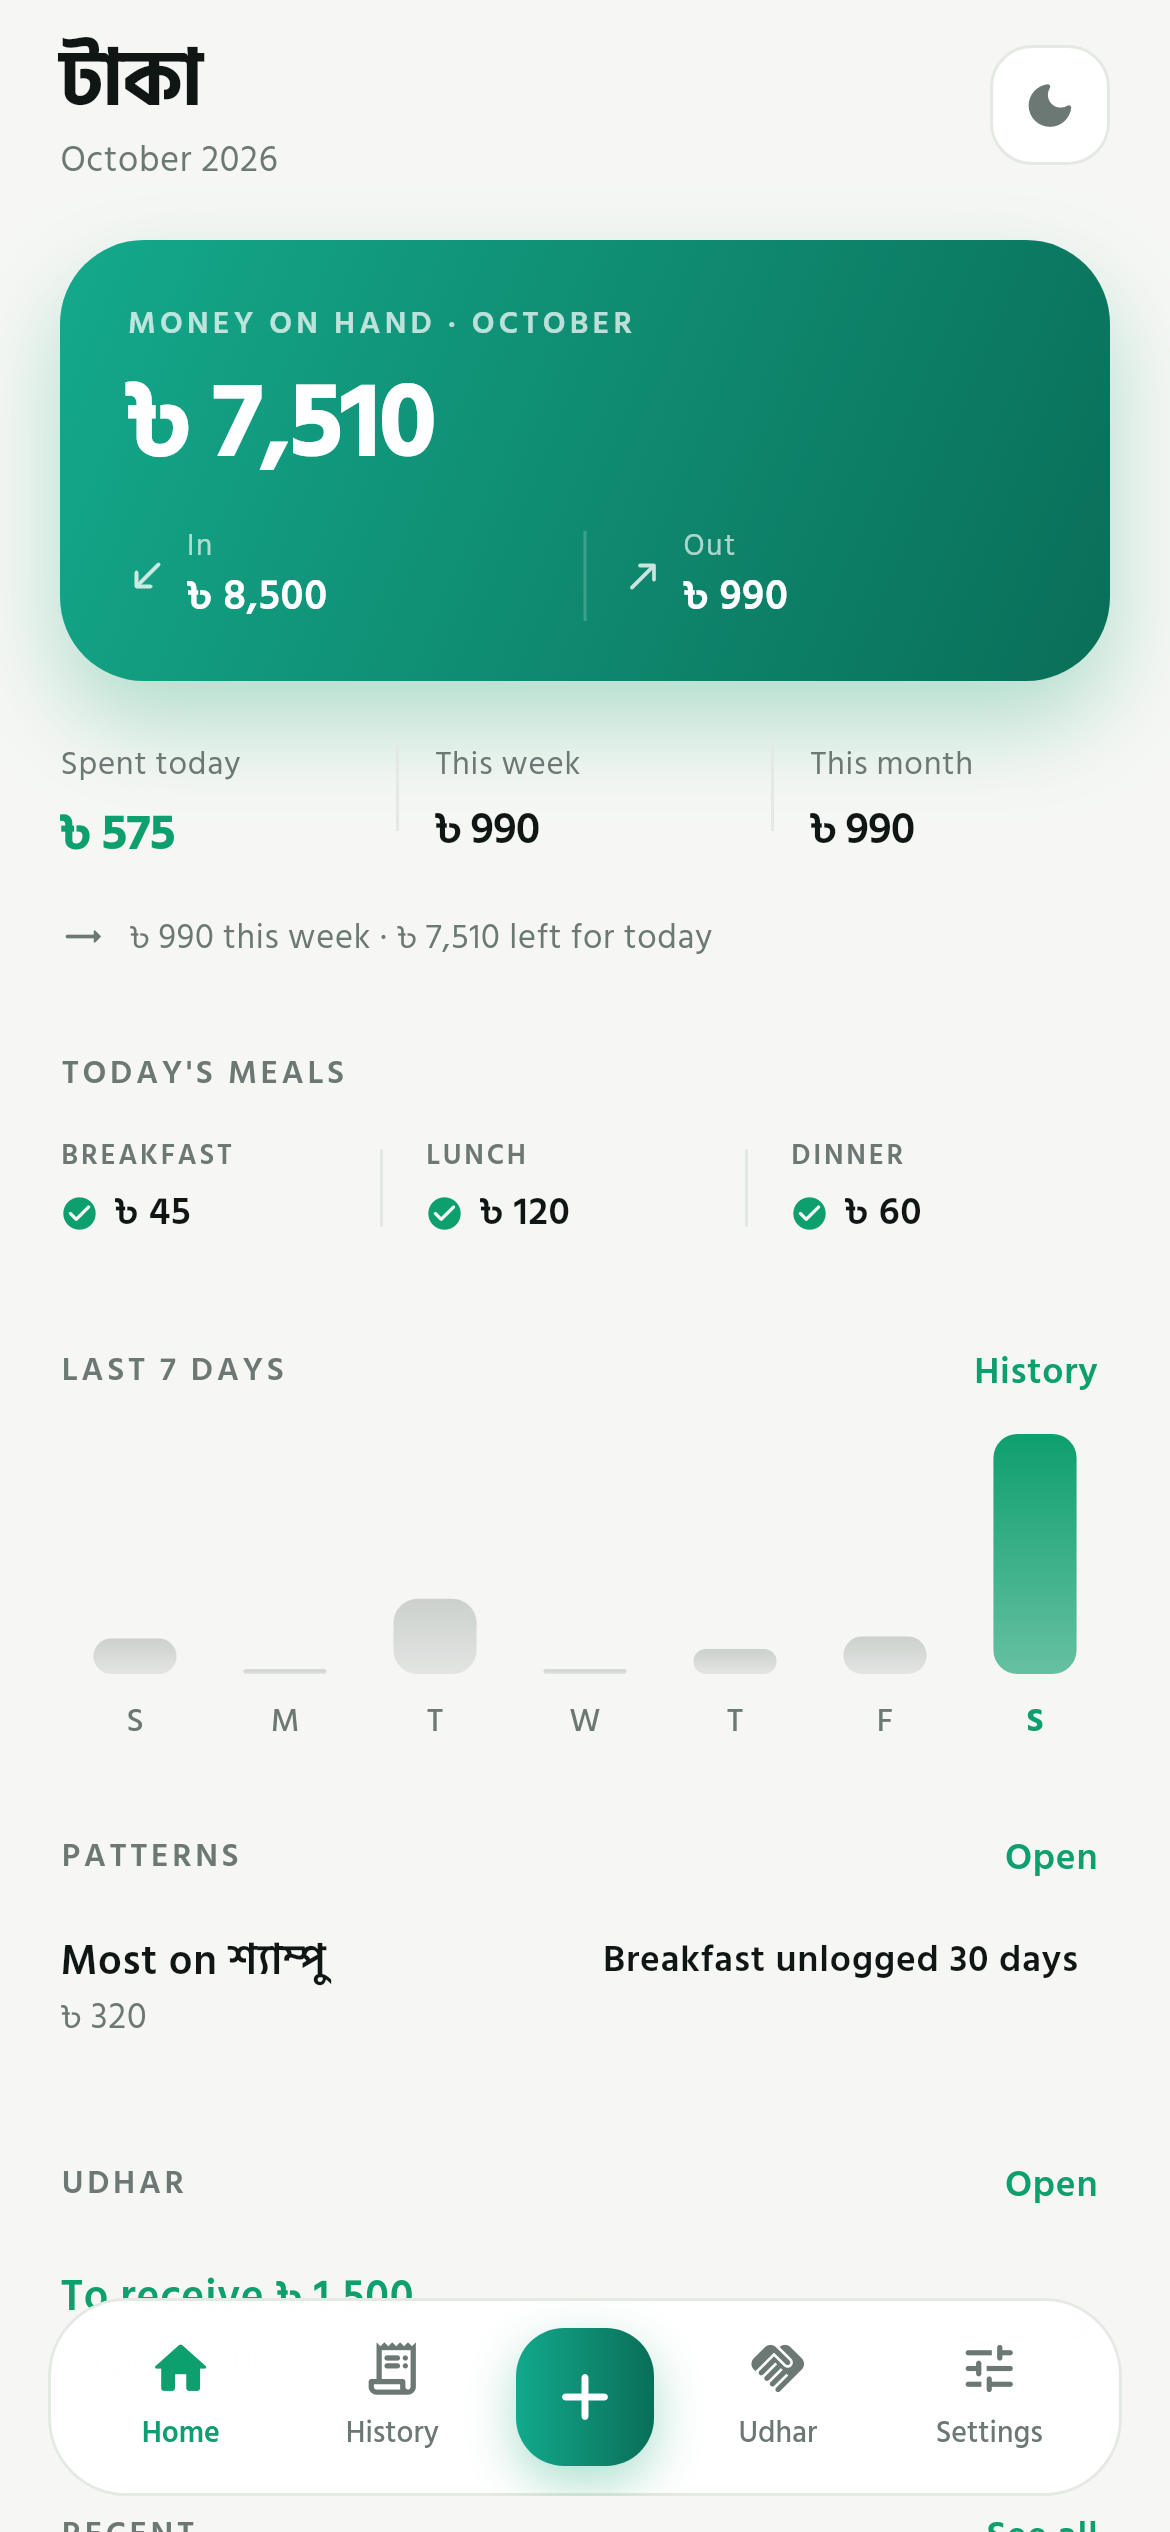
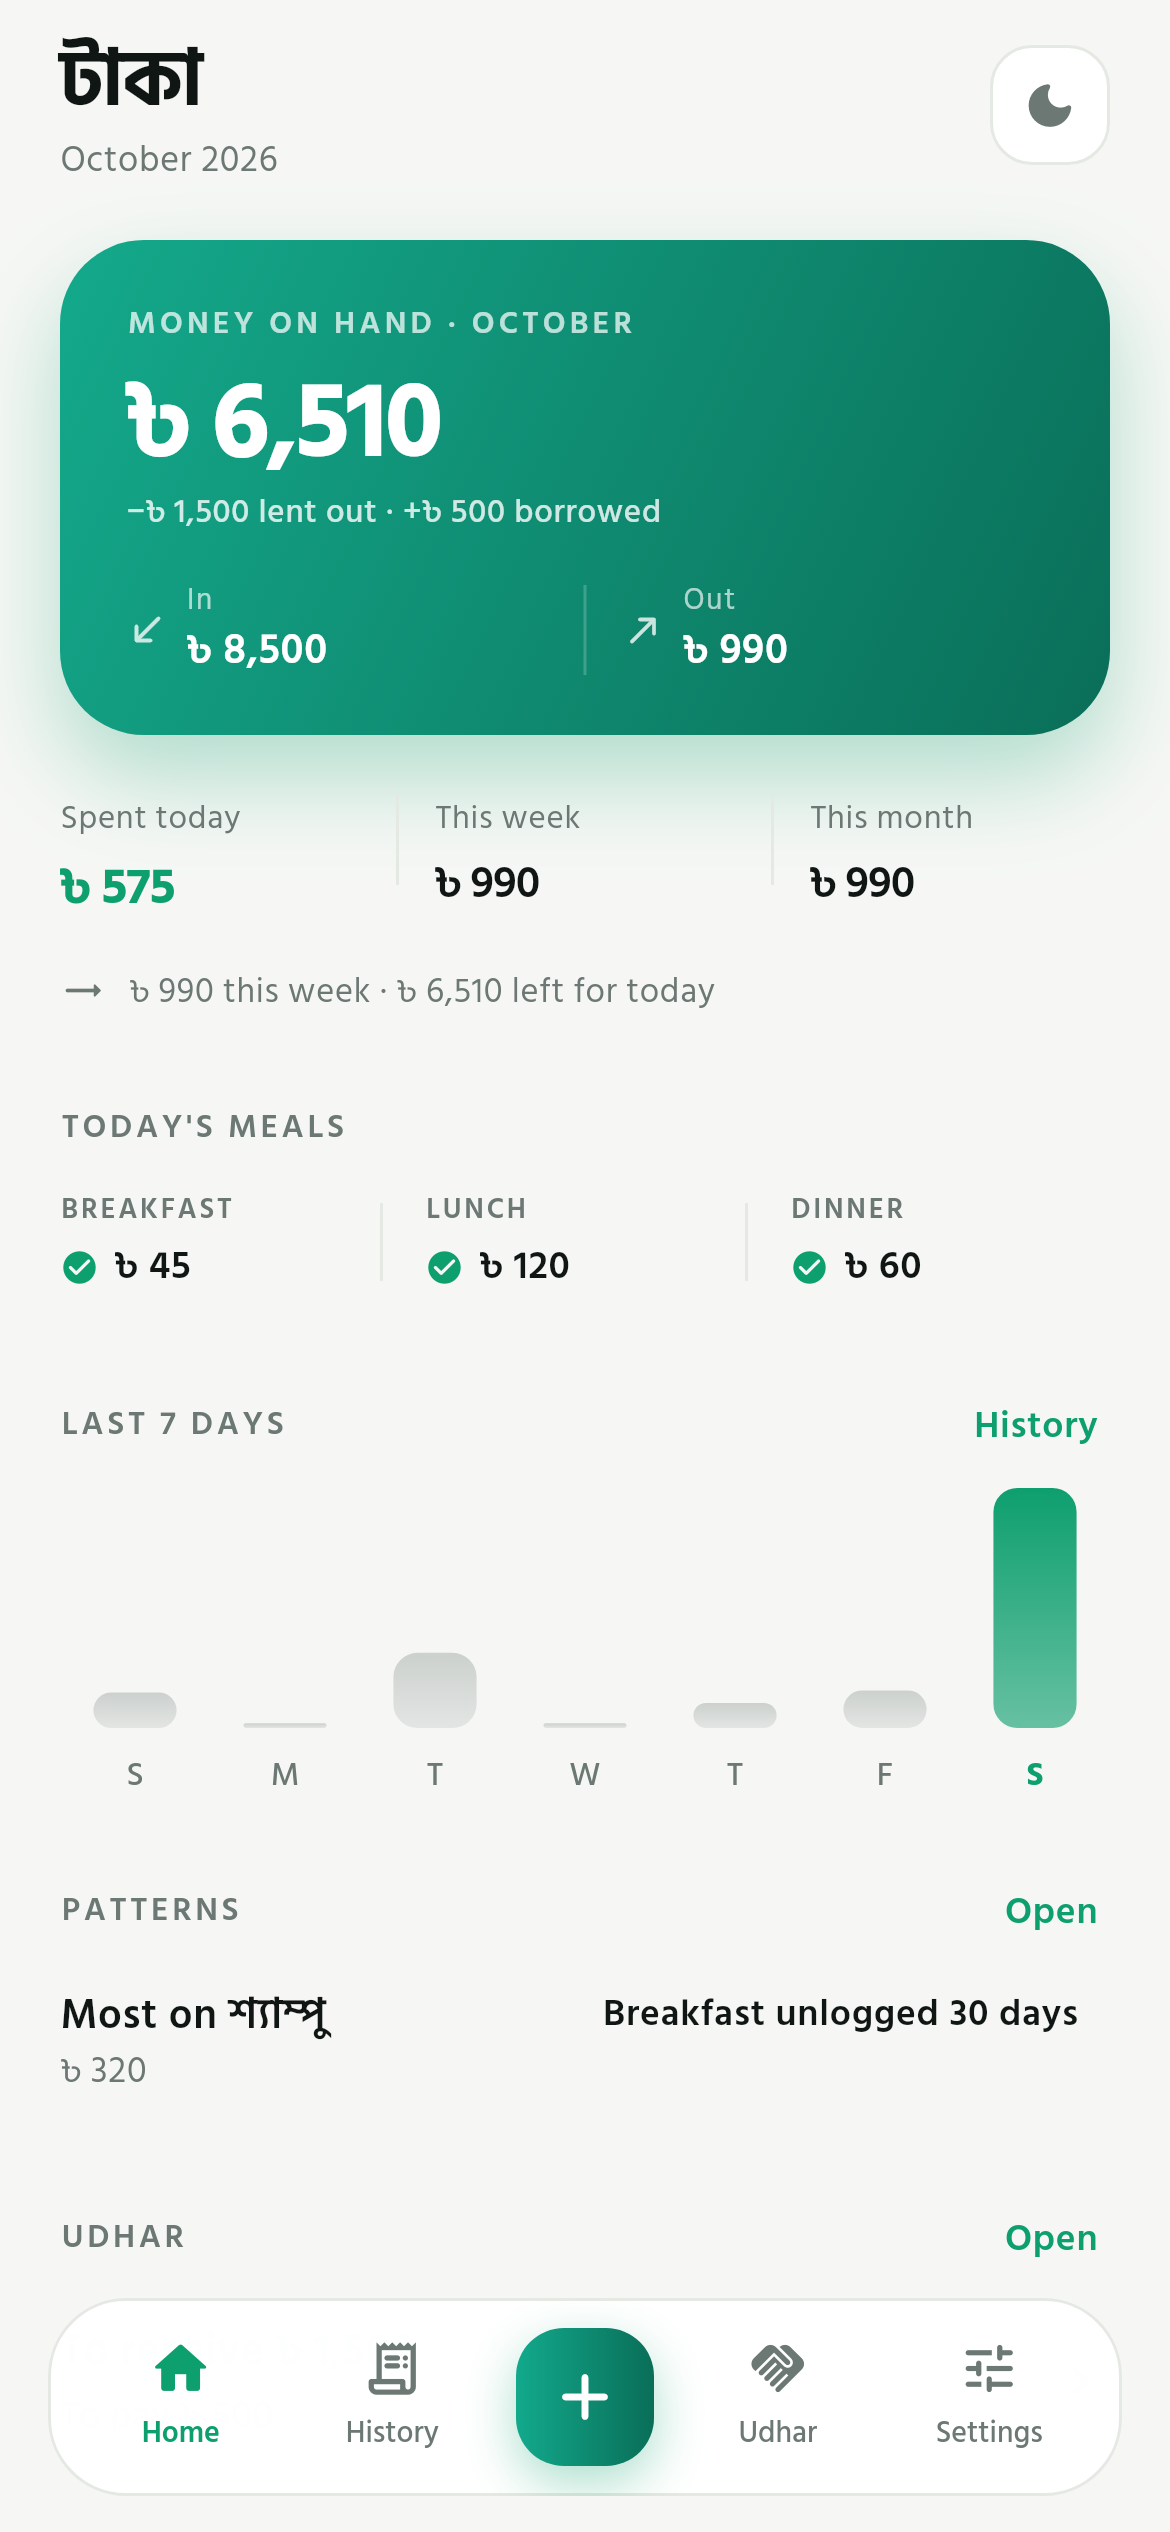
feat(home): udhar counts in money on hand, because it is in the pocket
Lending ৳1,500 to a friend and borrowing ৳500 from another does change what you
can spend, so leaving udhar out of the big number was wrong in exactly the way
the month-boundary bug was wrong: the app knew the money had moved and pretended
otherwise.

- `moneyOnHand` = everything earned − everything spent + borrowed − lent.
  `availableThisMonth` still means this month's own arithmetic, so budgets,
  insights and the In/Out figures are untouched: udhar is a pending ledger, not
  an expense.
- The card says why: `−৳ 1,500 lent out · +৳ 500 borrowed`, drawn only when
  something is open.
- The per-day nudge divides money on hand, since that is what a canteen takes.
- Settling a loan moves the same amount back — `setUdharReturned` already reloads
  the outstanding totals, so nothing else was needed.

Tests: lending and borrowing move the number and settling restores it; an October
loan still reduces the pocket in November. 102 passing.

diff --git a/test/carry_search_test.dart b/test/carry_search_test.dart
@@ -3,6 +3,8 @@ import 'package:sqflite_common_ffi/sqflite_ffi.dart';
 import 'package:taka/core/clock.dart';
 import 'package:taka/db/database.dart';
 import 'package:taka/models/transaction_entry.dart';
+import 'package:taka/models/udhar_entry.dart';
+import 'package:taka/store/udhar_actions.dart';
 import 'package:taka/store/app_state.dart';
 import 'package:taka/store/data_actions.dart';
 
@@ -177,6 +179,83 @@ void main() {
             DateTime(2026, 12),
           )).expenseMinor;
       expect(available, 330000, reason: '3,800 carried minus 500 spent');
+    });
+
+    test('udhar moves the money on hand, and settling puts it back', () async {
+      // Salary in, then 2,000 lent to a friend and 500 borrowed from another.
+      await pocket.transactions.insert(
+        TransactionEntry(
+          id: 'income',
+          type: EntryType.income,
+          amountMinor: 500000,
+          categoryId: 'home_money',
+          note: 'Allowance',
+          occurredAt: DateTime(2026, 10, 30, 11),
+          createdAt: DateTime(2026, 10, 30, 11),
+          updatedAt: DateTime(2026, 10, 30, 11),
+        ),
+      );
+      await pocket.addUdhar(
+        type: UdharType.lent,
+        person: 'Rifat',
+        amountMinor: 200000,
+        note: 'Lent for his book',
+        occurredAt: DateTime(2026, 10, 30, 12),
+      );
+      await pocket.addUdhar(
+        type: UdharType.borrowed,
+        person: 'Sabbir',
+        amountMinor: 50000,
+        note: 'Borrowed for bus',
+        occurredAt: DateTime(2026, 10, 30, 13),
+      );
+
+      // 5,000 in, 2,000 out on loan, 500 in on a borrow: 3,500 is in the pocket.
+      expect(pocket.moneyOnHand, 350000);
+      // The month's own arithmetic is unchanged — udhar is not spending.
+      expect(pocket.availableThisMonth, 500000);
+
+      // Rifat pays it back: 500 of that comes home, and the ledger still says
+      // the same thing about income and spending.
+      final String rifat = pocket.udharEntries
+          .firstWhere((UdharEntry entry) => entry.person == 'Rifat')
+          .id;
+      await pocket.setUdharReturned(rifat, returned: true);
+
+      expect(pocket.moneyOnHand, 550000);
+      expect(pocket.availableThisMonth, 500000);
+      expect(pocket.udharTotals.lentMinor, 0);
+      expect(pocket.udharTotals.borrowedMinor, 50000);
+    });
+
+    test('an old loan keeps reducing the pocket in the next month', () async {
+      await pocket.transactions.insert(
+        TransactionEntry(
+          id: 'income',
+          type: EntryType.income,
+          amountMinor: 500000,
+          categoryId: 'home_money',
+          note: 'Allowance',
+          occurredAt: DateTime(2026, 10, 30, 11),
+          createdAt: DateTime(2026, 10, 30, 11),
+          updatedAt: DateTime(2026, 10, 30, 11),
+        ),
+      );
+      await pocket.addUdhar(
+        type: UdharType.lent,
+        person: 'Rifat',
+        amountMinor: 200000,
+        note: '',
+        occurredAt: DateTime(2026, 10, 30, 12),
+      );
+
+      AppClock.now = () => DateTime(2026, 11, 1, 9);
+      addTearDown(() => AppClock.now = () => kTestNow);
+      await pocket.refreshIfDayChanged();
+
+      // November has no income of its own, and the loan from October is still out.
+      expect(pocket.availableThisMonth, 500000);
+      expect(pocket.moneyOnHand, 300000);
     });
 
     test('two months of leftovers both carry, and a month with no money kept', () async {

diff --git a/lib/screens/home_screen.dart b/lib/screens/home_screen.dart
@@ -61,13 +61,14 @@ class HomeScreen extends StatelessWidget {
             child: HeroBalance(
               // The money you have, not the month's net: leftover from the
               // previous month is spendable today, so it belongs in this number.
-              balanceMinor: state.availableThisMonth,
+              balanceMinor: state.moneyOnHand,
               incomeMinor: state.month.incomeMinor,
               expenseMinor: state.month.expenseMinor,
               monthLabel: 'Money on hand · ${monthName(now.month)}',
               symbol: symbol,
               carriedMinor: state.carryIntoMonth(now),
               carriedLabel: previousMonthLabel(now),
+              udharNote: _udharNote(state),
             ),
           ),
           Reveal(
@@ -318,6 +319,17 @@ class _MealsStrip extends StatelessWidget {
   }
 }
 
+/// "−৳ 1,500 lent out · +৳ 500 borrowed", or null when nothing is open.
+String? _udharNote(AppState state) {
+  final List<String> parts = <String>[
+    if (state.udharTotals.lentMinor > 0)
+      '−${formatMoney(state.udharTotals.lentMinor, symbol: state.currencySymbol)} lent out',
+    if (state.udharTotals.borrowedMinor > 0)
+      '+${formatMoney(state.udharTotals.borrowedMinor, symbol: state.currencySymbol)} borrowed',
+  ];
+  return parts.isEmpty ? null : parts.join(' · ');
+}
+
 /// Two figures from Patterns, so the section is worth having on Home without
 /// being a dashboard. Tapping anywhere in it opens the full screen.
 class _PatternsTeaser extends StatelessWidget {
@@ -449,7 +461,9 @@ class _Nudge extends StatelessWidget {
     final int daysInMonth = DateTime(now.year, now.month + 1, 0).day;
     final int daysLeft = (daysInMonth - now.day + 1).clamp(1, 31);
     final int carried = state.carryIntoMonth(now);
-    final int available = state.availableThisMonth;
+    // What is left to spend is money on hand, udhar included: money lent out is
+    // not available to a canteen, and money borrowed is.
+    final int available = state.moneyOnHand;
 
     // Nothing has come in this month and nothing rolled over: there is no
     // "left" to divide. Saying "nothing left of this month's income" on the 1st

diff --git a/lib/components/hero_balance.dart b/lib/components/hero_balance.dart
@@ -21,6 +21,7 @@ class HeroBalance extends StatelessWidget {
     required this.symbol,
     this.carriedMinor = 0,
     this.carriedLabel,
+    this.udharNote,
   });
 
   final int balanceMinor;
@@ -35,6 +36,10 @@ class HeroBalance extends StatelessWidget {
 
   /// "carried from October", when it applies.
   final String? carriedLabel;
+
+  /// "−৳ 1,500 lent out · +৳ 500 borrowed", when udhar is open. The big number
+  /// already includes both; this says so rather than leaving it a mystery.
+  final String? udharNote;
 
   @override
   Widget build(BuildContext context) {
@@ -91,6 +96,17 @@ class HeroBalance extends StatelessWidget {
                 '${carriedMinor > 0 ? '+' : ''}'
                 '${formatMoney(carriedMinor, symbol: symbol)} '
                 '${carriedLabel!}',
+                style: TextStyle(
+                  fontSize: 11,
+                  fontWeight: FontWeight.w500,
+                  color: Colors.white.withValues(alpha: 0.80),
+                ),
+              ),
+            ],
+            if (udharNote != null) ...<Widget>[
+              const SizedBox(height: 2),
+              Text(
+                udharNote!,
                 style: TextStyle(
                   fontSize: 11,
                   fontWeight: FontWeight.w500,

diff --git a/lib/store/app_state.dart b/lib/store/app_state.dart
@@ -228,10 +228,22 @@ class AppState extends ChangeNotifier {
     return net;
   }
 
-  /// What is actually available this month: what rolled over, plus what came in,
-  /// minus what went out.
+  /// What this month's own money adds up to: what rolled over, plus what came
+  /// in, minus what went out. Udhar is not in here — see [moneyOnHand].
   int get availableThisMonth =>
       carryIntoMonth(now) + month.incomeMinor - month.expenseMinor;
+
+  /// The effect of open udhar on the pocket.
+  ///
+  /// Money lent out is not in your pocket any more, and money borrowed is — even
+  /// though neither is a transaction. This is the correction, not an expense:
+  /// settling either one moves the same amount back.
+  int get udharAdjustmentMinor =>
+      udharTotals.borrowedMinor - udharTotals.lentMinor;
+
+  /// The number on Home: everything earned, minus everything spent, corrected
+  /// for udhar that is still open. This is what you could actually spend today.
+  int get moneyOnHand => availableThisMonth + udharAdjustmentMinor;
 
   /// `monthSpend` with a row per group, so budgets and totals can show a group
   /// in one number.

diff --git a/test/screens_test.dart b/test/screens_test.dart
@@ -66,6 +66,10 @@ void main() {
     // the pocket holds 7,510 — the hero says so, and says where it came from.
     expect(find.textContaining('MONEY ON HAND · NOVEMBER'), findsOneWidget);
     expect(find.textContaining('carried from October'), findsOneWidget);
+    // The seeded ledger has ৳1,500 lent out and ৳500 borrowed, so the pocket is
+    // 7,510 − 1,500 + 500, and the card says why it is not 7,510.
+    expect(find.textContaining('lent out'), findsOneWidget);
+    expect(find.textContaining('borrowed'), findsOneWidget);
     // Nothing has been logged this month, so there is no per-day figure to
     // invent and the nudge stays about the week.
     expect(find.textContaining('left for today'), findsNothing);

diff --git a/lib/core/app_info.dart b/lib/core/app_info.dart
@@ -6,7 +6,7 @@ class AppInfo {
   static const String name = 'Taka';
   static const String nameBn = 'টাকা';
   static const String tagline = 'Amar taka gelota koi?';
-  static const String version = '1.6.0';
+  static const String version = '1.7.0';
 
   /// The person this was built for, and by.
   static const String author = 'Mazidul Islam Mahim';

diff --git a/README.md b/README.md
@@ -13,7 +13,7 @@ much of the month is left.
 ![Dart](https://img.shields.io/badge/Dart-3.13-0175C2?logo=dart&logoColor=white)
 ![Android](https://img.shields.io/badge/Android-API%2021%2B-3DDC84?logo=android&logoColor=white)
 ![Tests](https://img.shields.io/badge/tests-77%20passing-0E9F6E)
-[![Download APK](https://img.shields.io/badge/download-v1.6.0%20APK-0E9F6E?logo=android&logoColor=white)](https://github.com/mahimmazidul/taka/releases/latest)
+[![Download APK](https://img.shields.io/badge/download-v1.7.0%20APK-0E9F6E?logo=android&logoColor=white)](https://github.com/mahimmazidul/taka/releases/latest)
 [![Build & Release](https://github.com/mahimmazidul/taka/actions/workflows/release.yml/badge.svg)](https://github.com/mahimmazidul/taka/actions/workflows/release.yml)
 
 ---
@@ -148,6 +148,12 @@ big number on Home is now *money on hand*: everything not yet spent, with a line
 saying how much of it (`+৳ 7,510 carried from October`). The per-day nudge divides
 that, the month breakdown shows what carried in, and a month with no income at all
 still starts with last month's remainder.
+
+**Udhar moves that number too, because it moves the pocket.** Money lent out is
+not in your hand any more and money borrowed is, so *money on hand* is corrected
+by both — with a line saying which: `−৳ 1,500 lent out · +৳ 500 borrowed`.
+Settling either one puts the same amount back. This is a correction to the
+pocket, not an expense: income and spending stay what they were.
 
 Limits are a separate idea and stay separate: a budget caps a category for the
 month and never eats the money you already have.
@@ -345,7 +351,7 @@ through four upgrades, v2 → v6.
 
 ### Tests
 
-100 tests, all offline (36 logic, insight and store rules, 25 database, 11 screen, 20 golden,
+102 tests, all offline (38 logic, insight and store rules, 25 database, 11 screen, 20 golden,
 plus the fast-food and carry-over rules):
 
 | File | Covers |
@@ -355,7 +361,7 @@ plus the fast-food and carry-over rules):
 | `test/period_stats_test.dart` | the day / week / month / year maths behind the breakdowns: empty days kept, income kept apart from spending, the month list starting where the history starts, a day's entries newest first |
 | `test/food_logic_test.dart` | the meal rule: which categories may take a meal, that a non-food entry never lands in a meal total even if an old row stored one, why noodles and egg exist twice, and that `today` really resets at midnight |
 | `test/insights_test.dart` | the Patterns maths: a meal day is missed only when nothing was logged for it, today counts only for meals already past, a non-food entry never counts, ranking, rhythm, and that 1.10.0 is newer than 1.9.0 |
-| `test/carry_search_test.dart` | the real case — money in on 30 October, spent the same day, still there on 1 November; two months of leftovers both carrying; that a resume on the same day does not reload but a new day does; and search: by note in any month, by English category name, by Bangla category name |
+| `test/carry_search_test.dart` | the real case — money in on 30 October, spent the same day, still there on 1 November; two months of leftovers both carrying; that a resume on the same day does not reload but a new day does; udhar moving money on hand and settling reversing it; and search: by note in any month, by English category name, by Bangla category name |
 | `test/screens_test.dart` | the whole app at 320 / 360 / 414 / 768 widths **and in landscape**, 1.3× text scale, tab switching, adding an entry end-to-end, the meal row disappearing for a face wash, the period breakdowns and their day sheet, dark-mode toggle |
 | `test/golden_test.dart` | every screenshot in this README |
 
@@ -370,6 +376,11 @@ plus the fast-food and carry-over rules):
 - Icons: Material Symbols via `flutter/material`.
 
 ## Changelog
+
+- **v1.7.0** — udhar now counts in **money on hand**: lent money is money that has
+  left the pocket, borrowed money is money that has arrived, and settling either
+  reverses it. The card says so under the balance. Spending and income totals are
+  untouched — udhar is still a pending ledger, not an expense.
 
 - **v1.6.0** — the money follows you across the month boundary. Home's big number
   is **money on hand** (last month's remainder + this month's income − this month's
